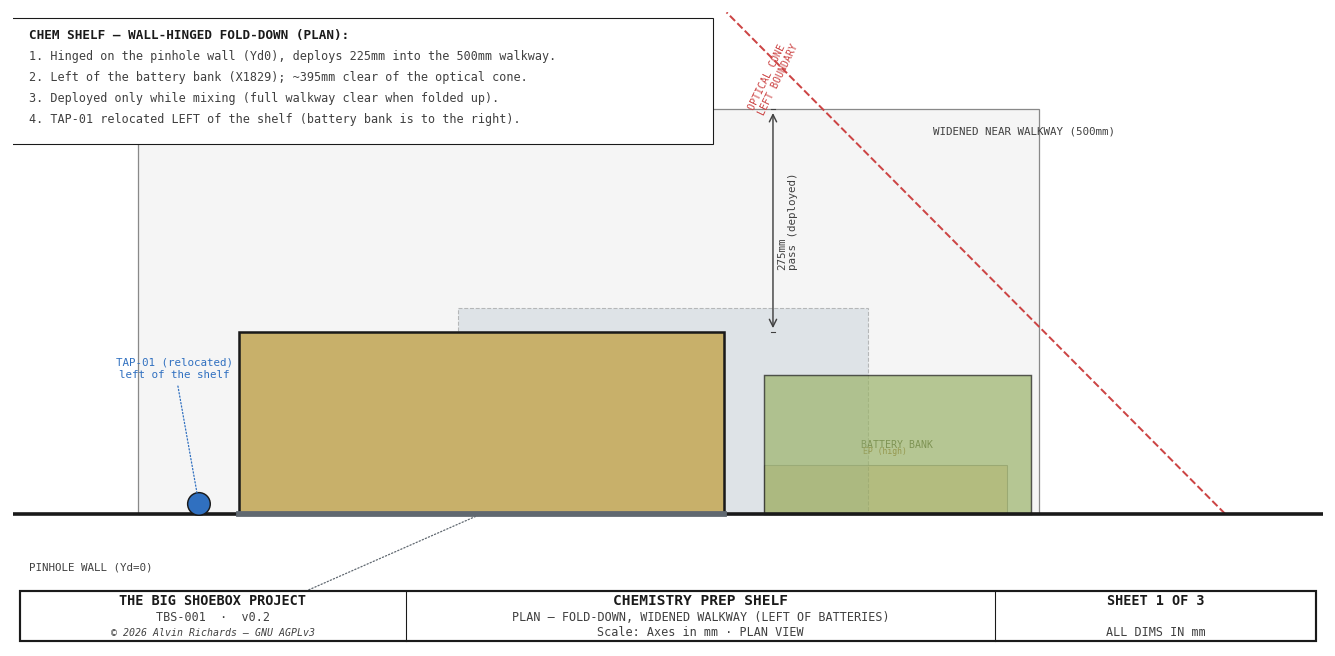
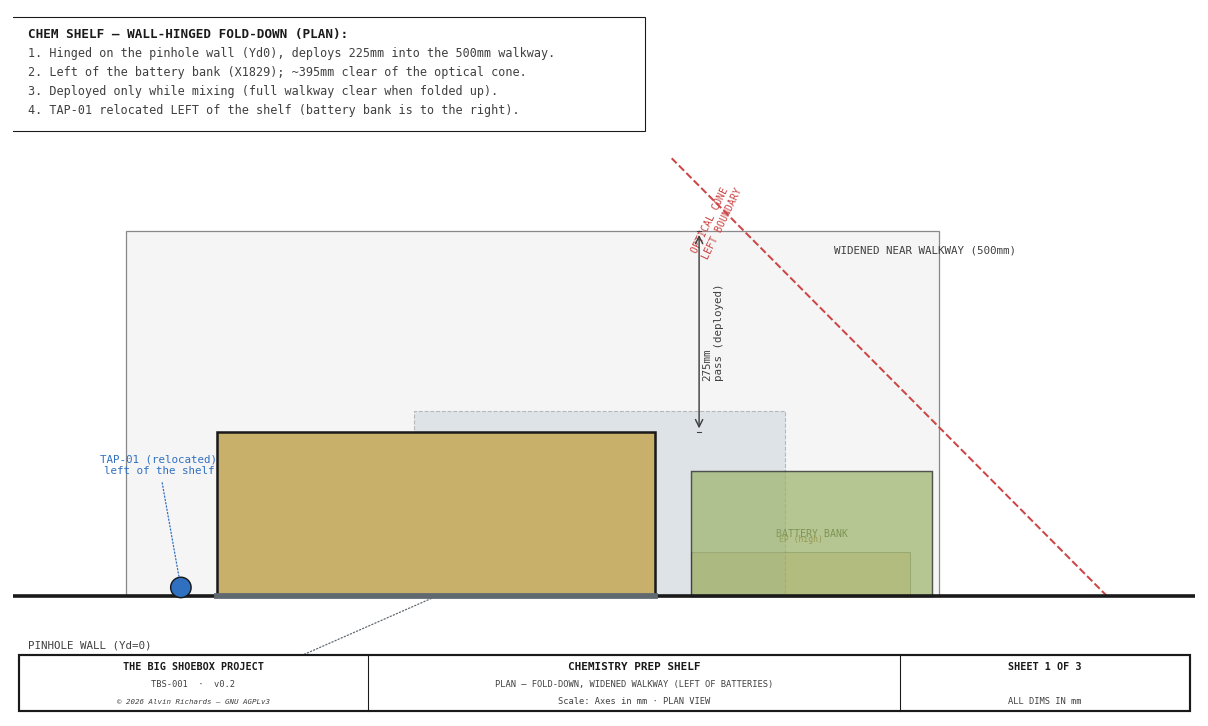
shelf-sheet1: extend the page up + cap the cone line so the notes clear the diagram
The plan-view notes block (anchored at Y_HI-20) hung down to ~y=444, over the widened-walkway box (top
y=500). Raised Y_HI 620->800 so the notes lift into a clear band above the diagram. Extending Y_HI also
stretched the optical-cone boundary line up into the notes box, so capped that line + its label at y=600
(below the notes band).

diff --git a/src/generators/generate_shelf_diagram.py b/src/generators/generate_shelf_diagram.py
@@ -47,7 +47,9 @@ def sheet1():
     fig, ax = plt.subplots(figsize=(13, 7))
     fig.patch.set_facecolor(BG); ax.set_facecolor(BG)
     X_LO, X_HI = 900, 2520
-    Y_LO, Y_HI = -160, 620
+    # Y_HI raised so the notes block (anchored at Y_HI-20) lifts clear of the diagram (walkway box
+    # tops at y=500) instead of hanging down over it.
+    Y_LO, Y_HI = -160, 800
     ax.set_xlim(X_LO, X_HI); ax.set_ylim(Y_LO, Y_HI)
     ax.set_aspect("equal"); ax.axis("off")
 
@@ -62,10 +64,11 @@ def sheet1():
     ax.text(2150, 470, f"WIDENED NEAR WALKWAY ({WALKWAY_NEAR_WIDE_W}mm)",
             fontsize=6, color=C_DIM, ha="center", **FONT)
 
-    # optical-cone left boundary (shelf must stay left of it)
-    cone_xs = [cone_left(y) for y in (0, Y_HI)]
-    ax.plot(cone_xs, [0, Y_HI], color="#CC4444", lw=1.1, ls="--", zorder=3)
-    ax.text(cone_xs[1] + 25, Y_HI - 30, "OPTICAL CONE\nLEFT BOUNDARY",
+    # optical-cone left boundary (shelf must stay left of it) — capped below the notes band
+    cone_top = 600
+    cone_xs = [cone_left(y) for y in (0, cone_top)]
+    ax.plot(cone_xs, [0, cone_top], color="#CC4444", lw=1.1, ls="--", zorder=3)
+    ax.text(cone_xs[1] + 25, cone_top - 30, "OPTICAL CONE\nLEFT BOUNDARY",
             fontsize=5.5, color="#CC4444", rotation=64, ha="left", va="top", **FONT)
 
     # battery bank + EP (to the RIGHT of the shelf)

diff --git a/RELEASE.md b/RELEASE.md
@@ -24,6 +24,10 @@ file** — a release must not ship without a changelog entry:
 
 ## [Unreleased]
 
+- **shelf-sheet1 notes overlap** — the plan-view notes block hung down over the diagram (walkway box
+  tops at y=500). Raised Y_HI (620→800) so the notes lift into a clear band above the diagram, and
+  capped the optical-cone boundary line at y=600 so it no longer stretches up through the notes box.
+
 - **pinhole-panel notes clipped** — the notes border box (a patch, which matplotlib clips to the axes)
   extended past the narrow xlim and was cut at the page edge (only its corner drew). Widened the page
   (xlim +750 + figsize 16→23 to keep the board scale) so the box fits, and widened the box (width
